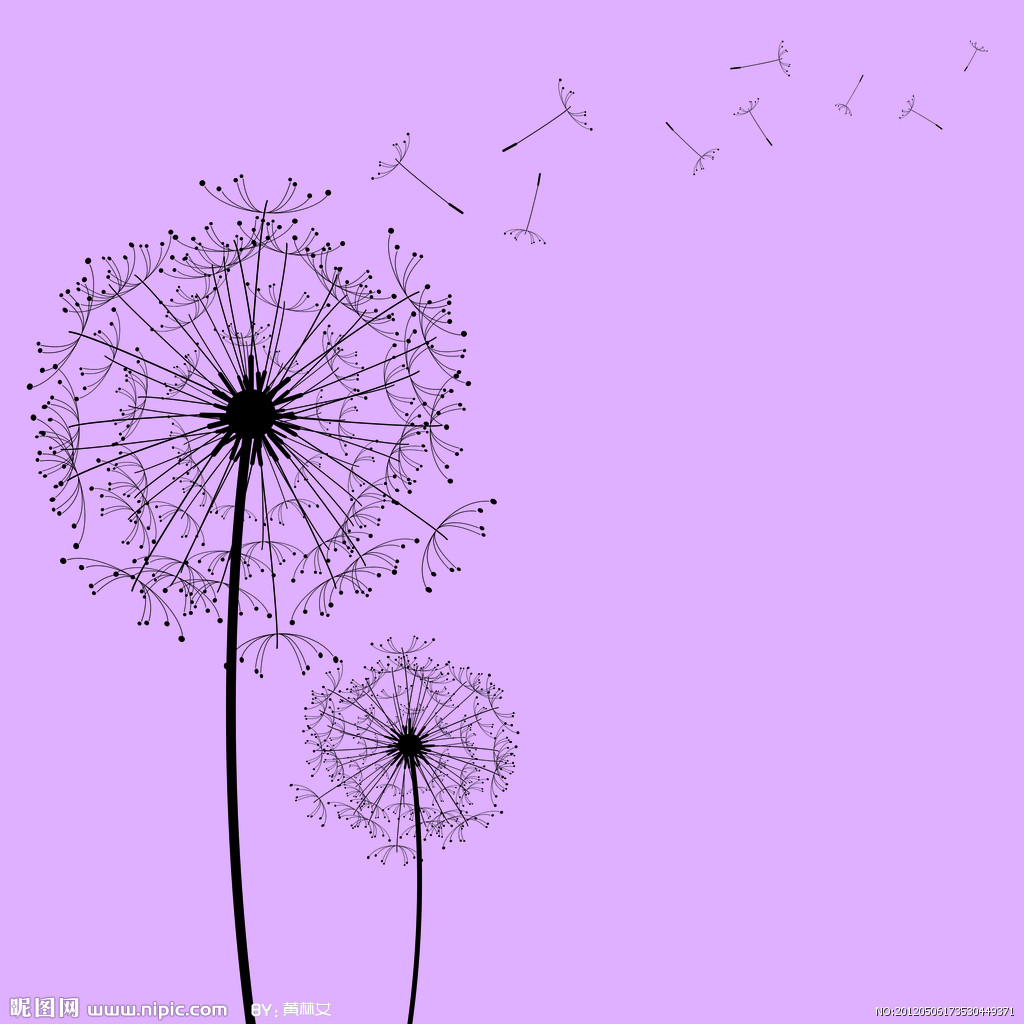
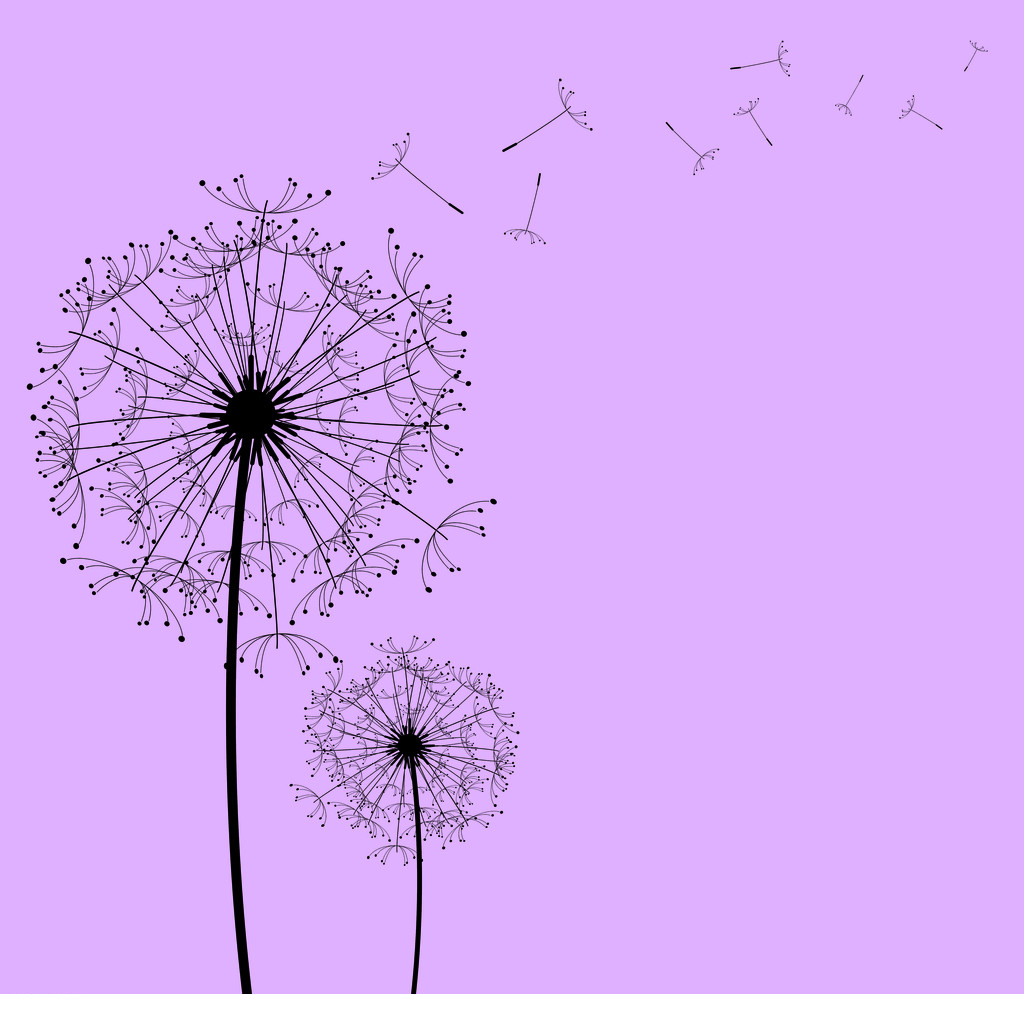
fix img

Changed region(s): [[0.0, 0.9688, 1.0, 1.0]]

diff --git a/729/tsyd.html b/729/tsyd.html
@@ -15,7 +15,7 @@
     <script type="text/javascript" src="js/functions.js"></script>
 </head>
 
-<body style="background-image:url(zpgy1.jpg); background-repeat:no-repeat; background-color:#DEB0FE">
+<body style="background-image:url(zpgy2.png); background-repeat:no-repeat; background-color:#DEB0FE">
 	<!-- 背景音乐自动播放 -->
 	<EMBED SRC="pgydyd.mp3" autostart=true hidden=true loop=true></EMBED>
 	<div id="mainDiv">
